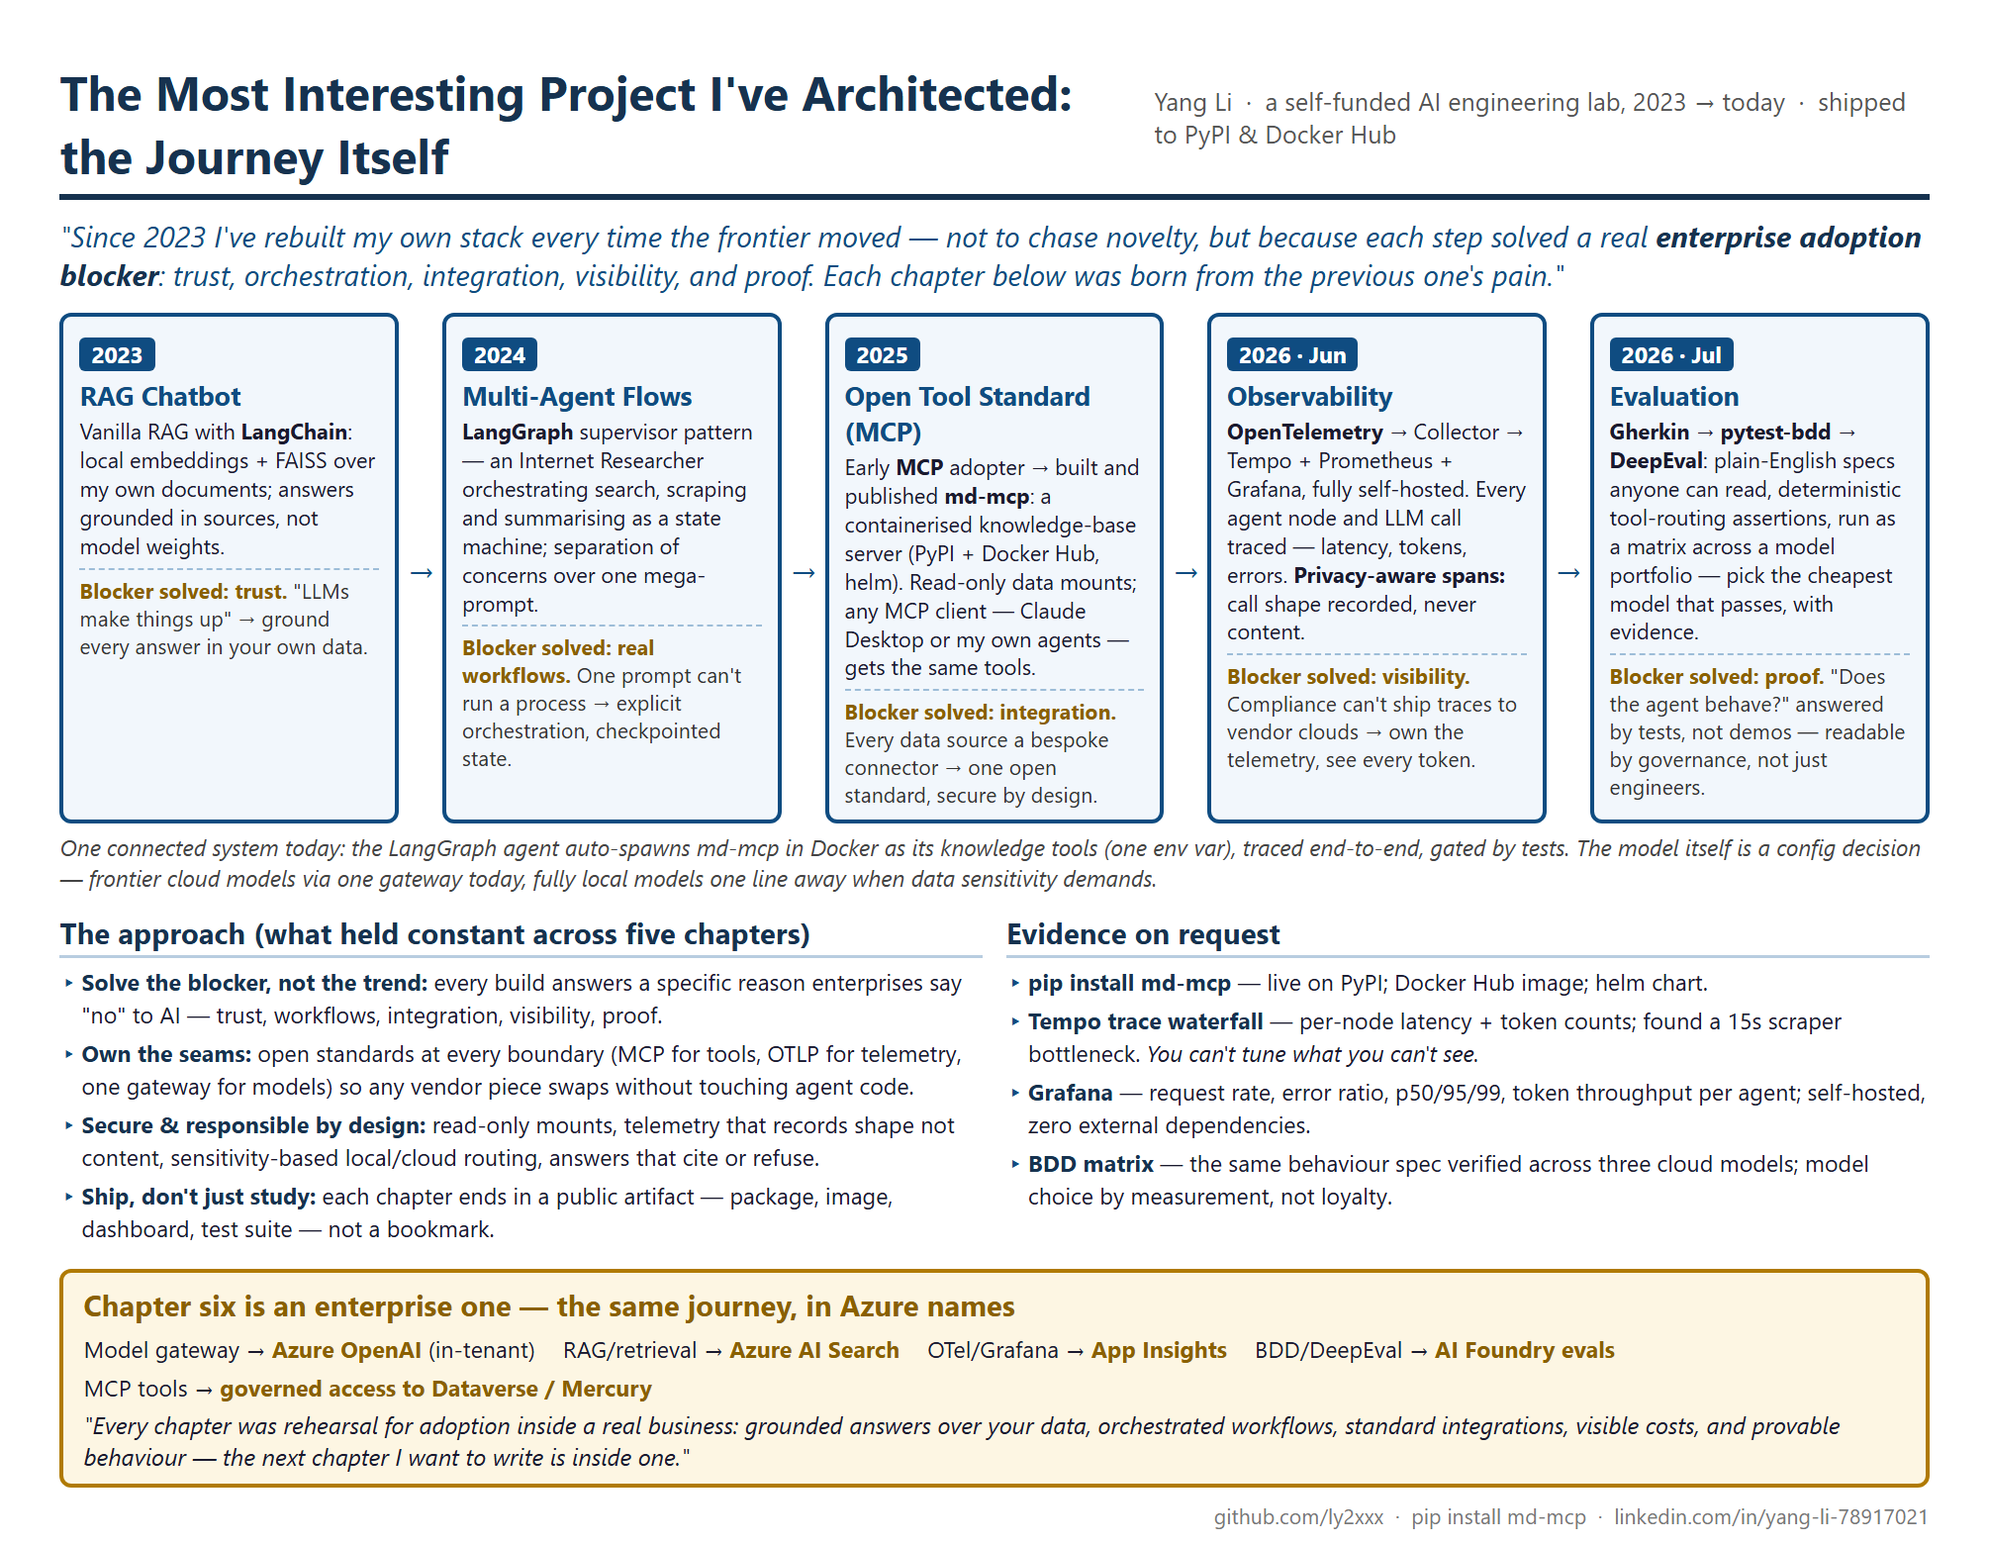
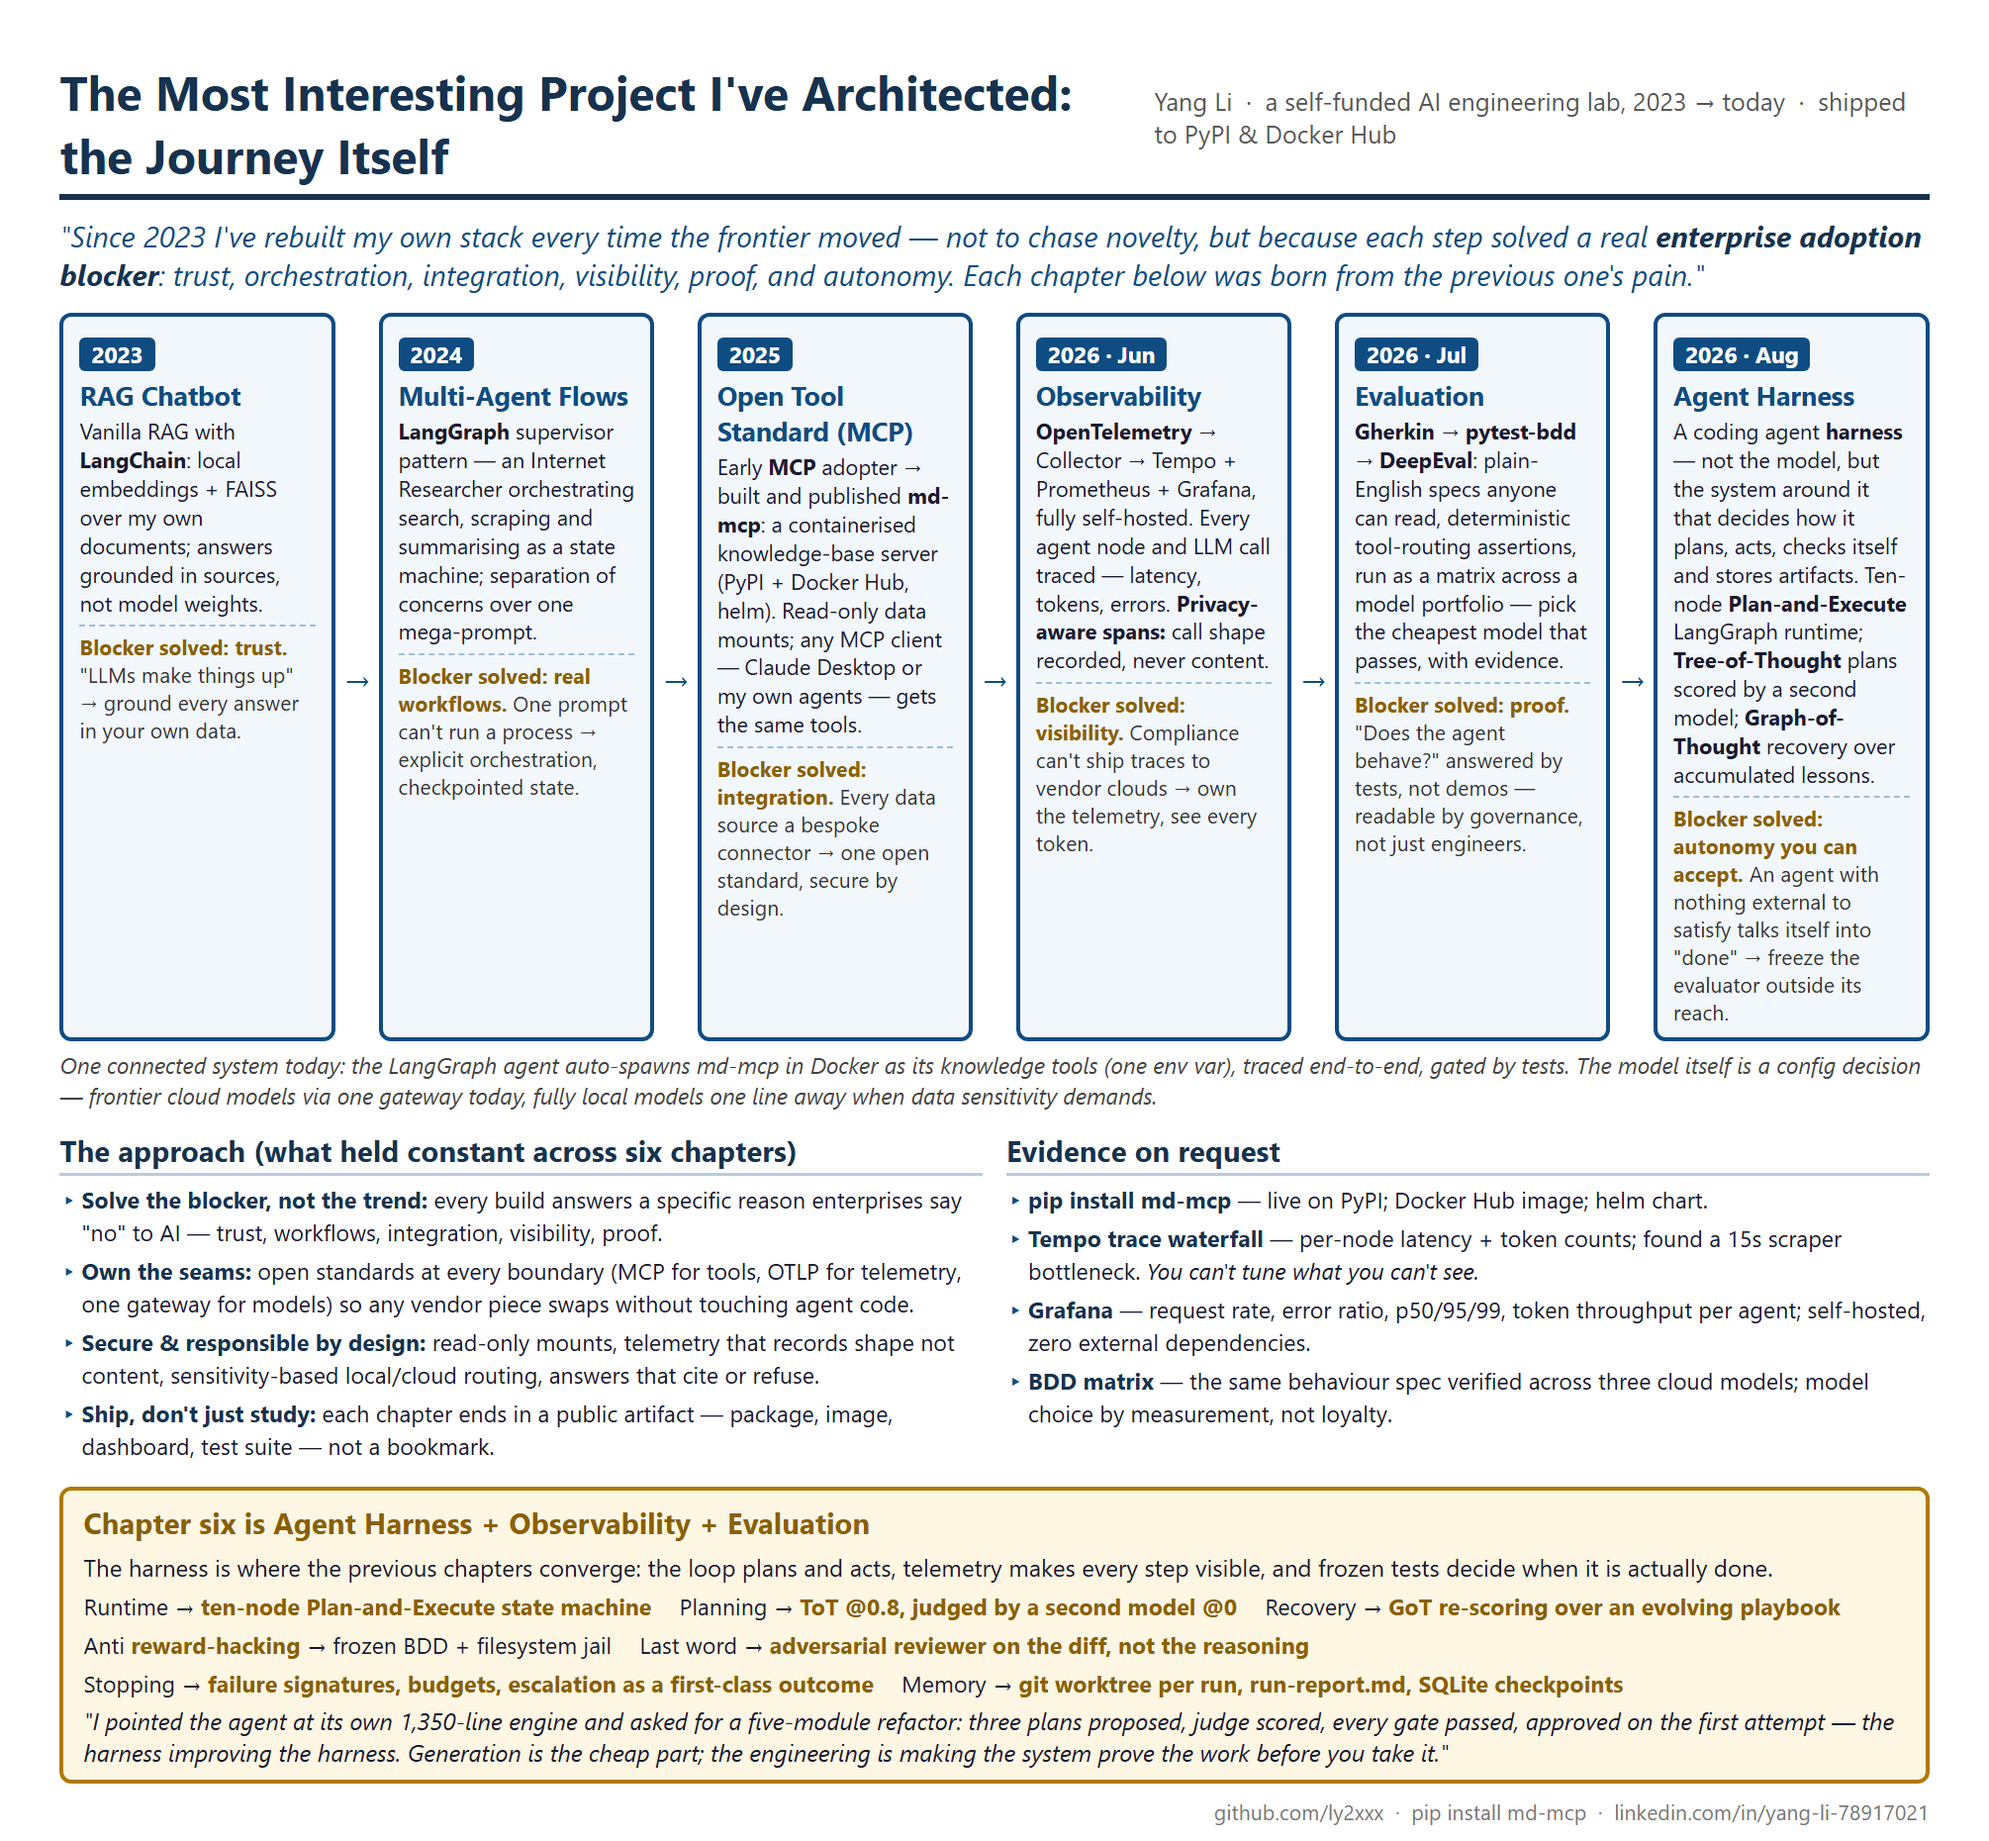
commit hook change

Changed region(s): [[0.0308, 0.0307, 0.9871, 1.0]]

diff --git a/README.md b/README.md
@@ -71,7 +71,15 @@ tracked [hooks/](hooks/) directory:
 git config core.hooksPath hooks
 ```
 
-Run that once per clone. From then on, any commit that stages
+Verify it took — an empty result means the hook is **not** active and commits will
+silently skip re-rendering:
+
+```bash
+git config core.hooksPath
+```
+
+This setting lives in `.git/config`, which is neither tracked nor cloned, so it must be
+run once **per clone, on every machine**. From then on, any commit that stages
 `OnePager-LocalFirst-AI-Stack.html` re-renders `common-left.png` and stages it
 alongside — so the image and its source always land in the same commit. Commits that
 don't touch the HTML are unaffected.
